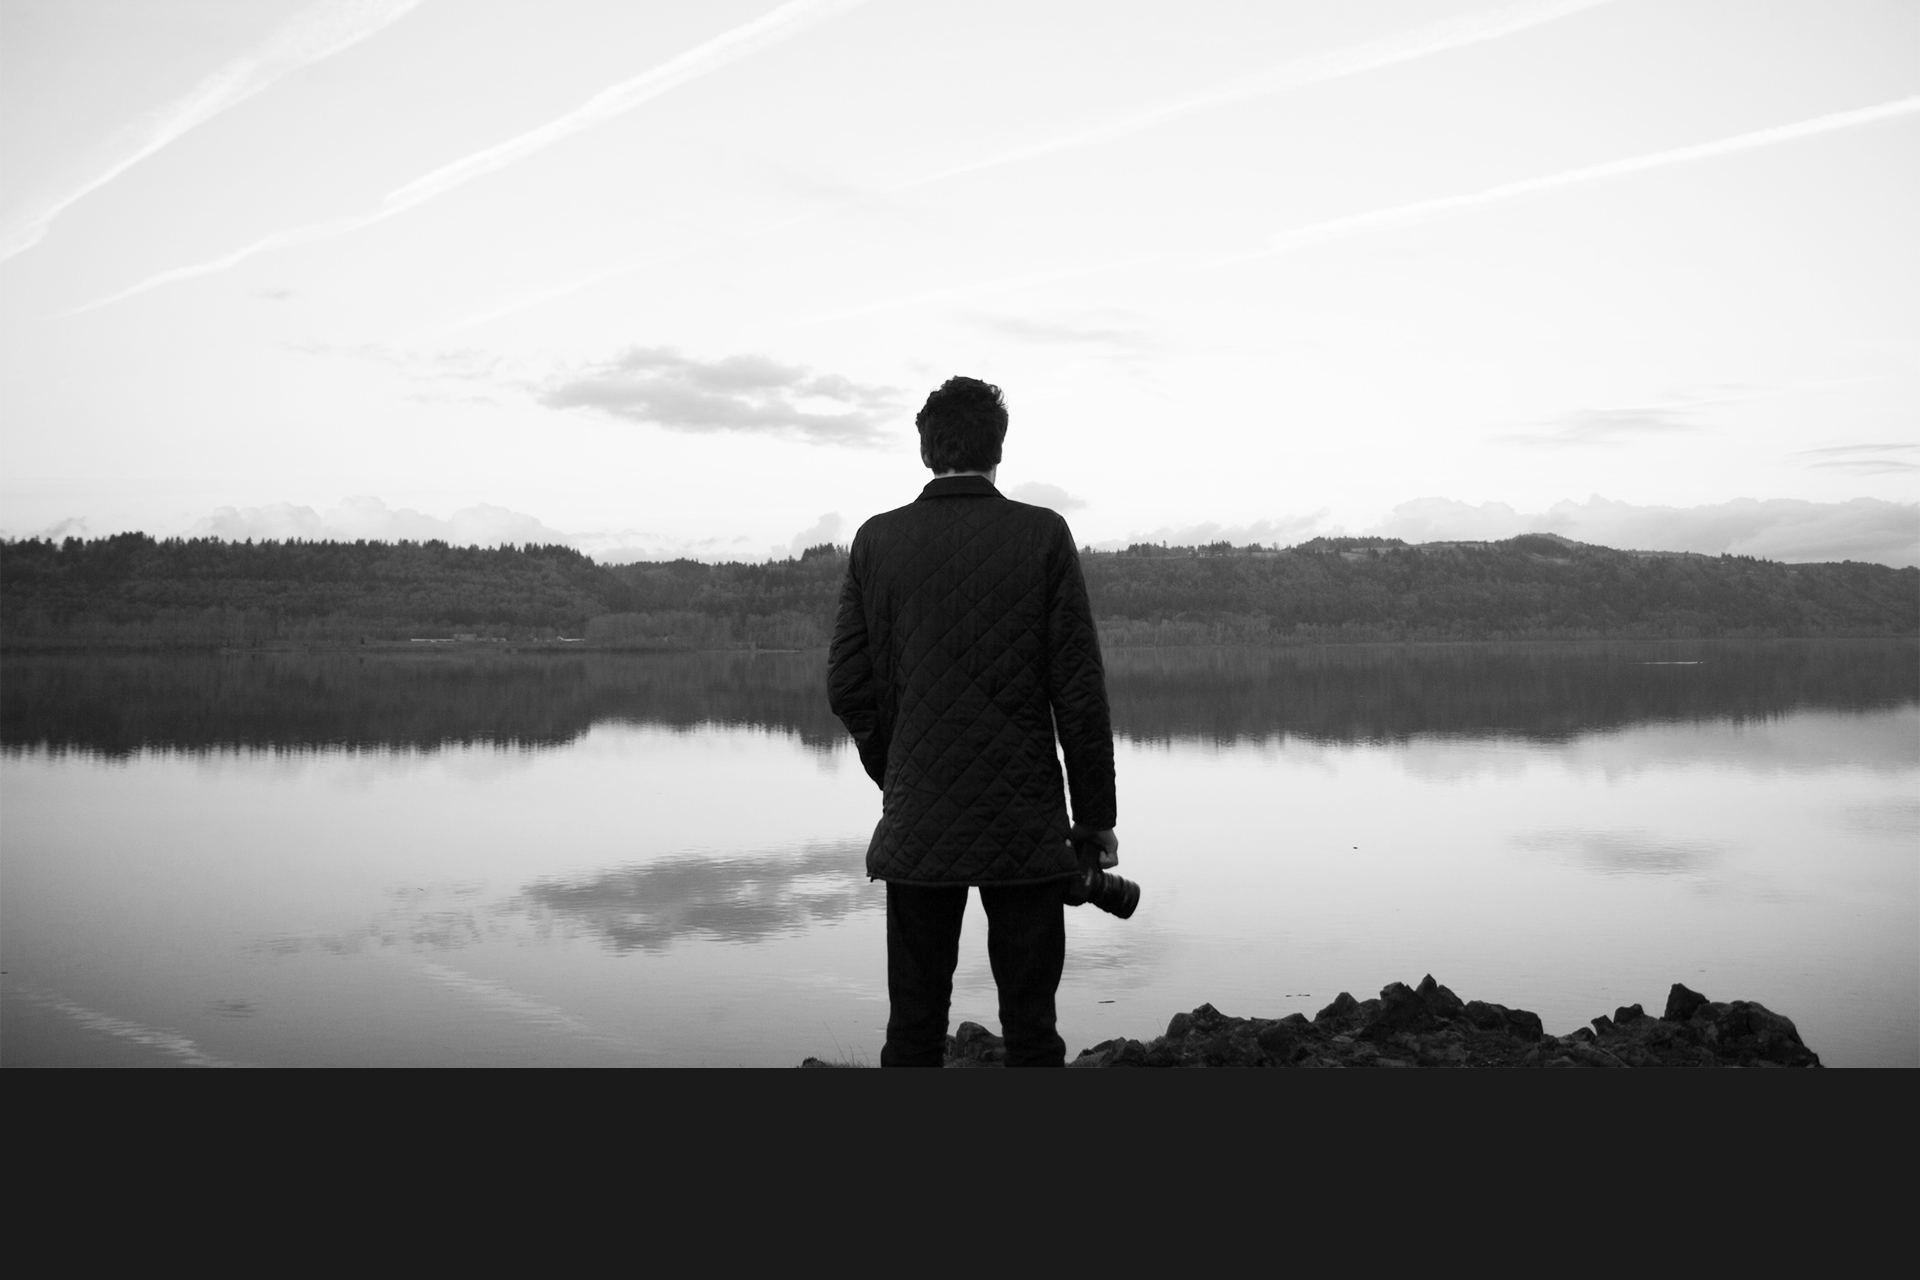
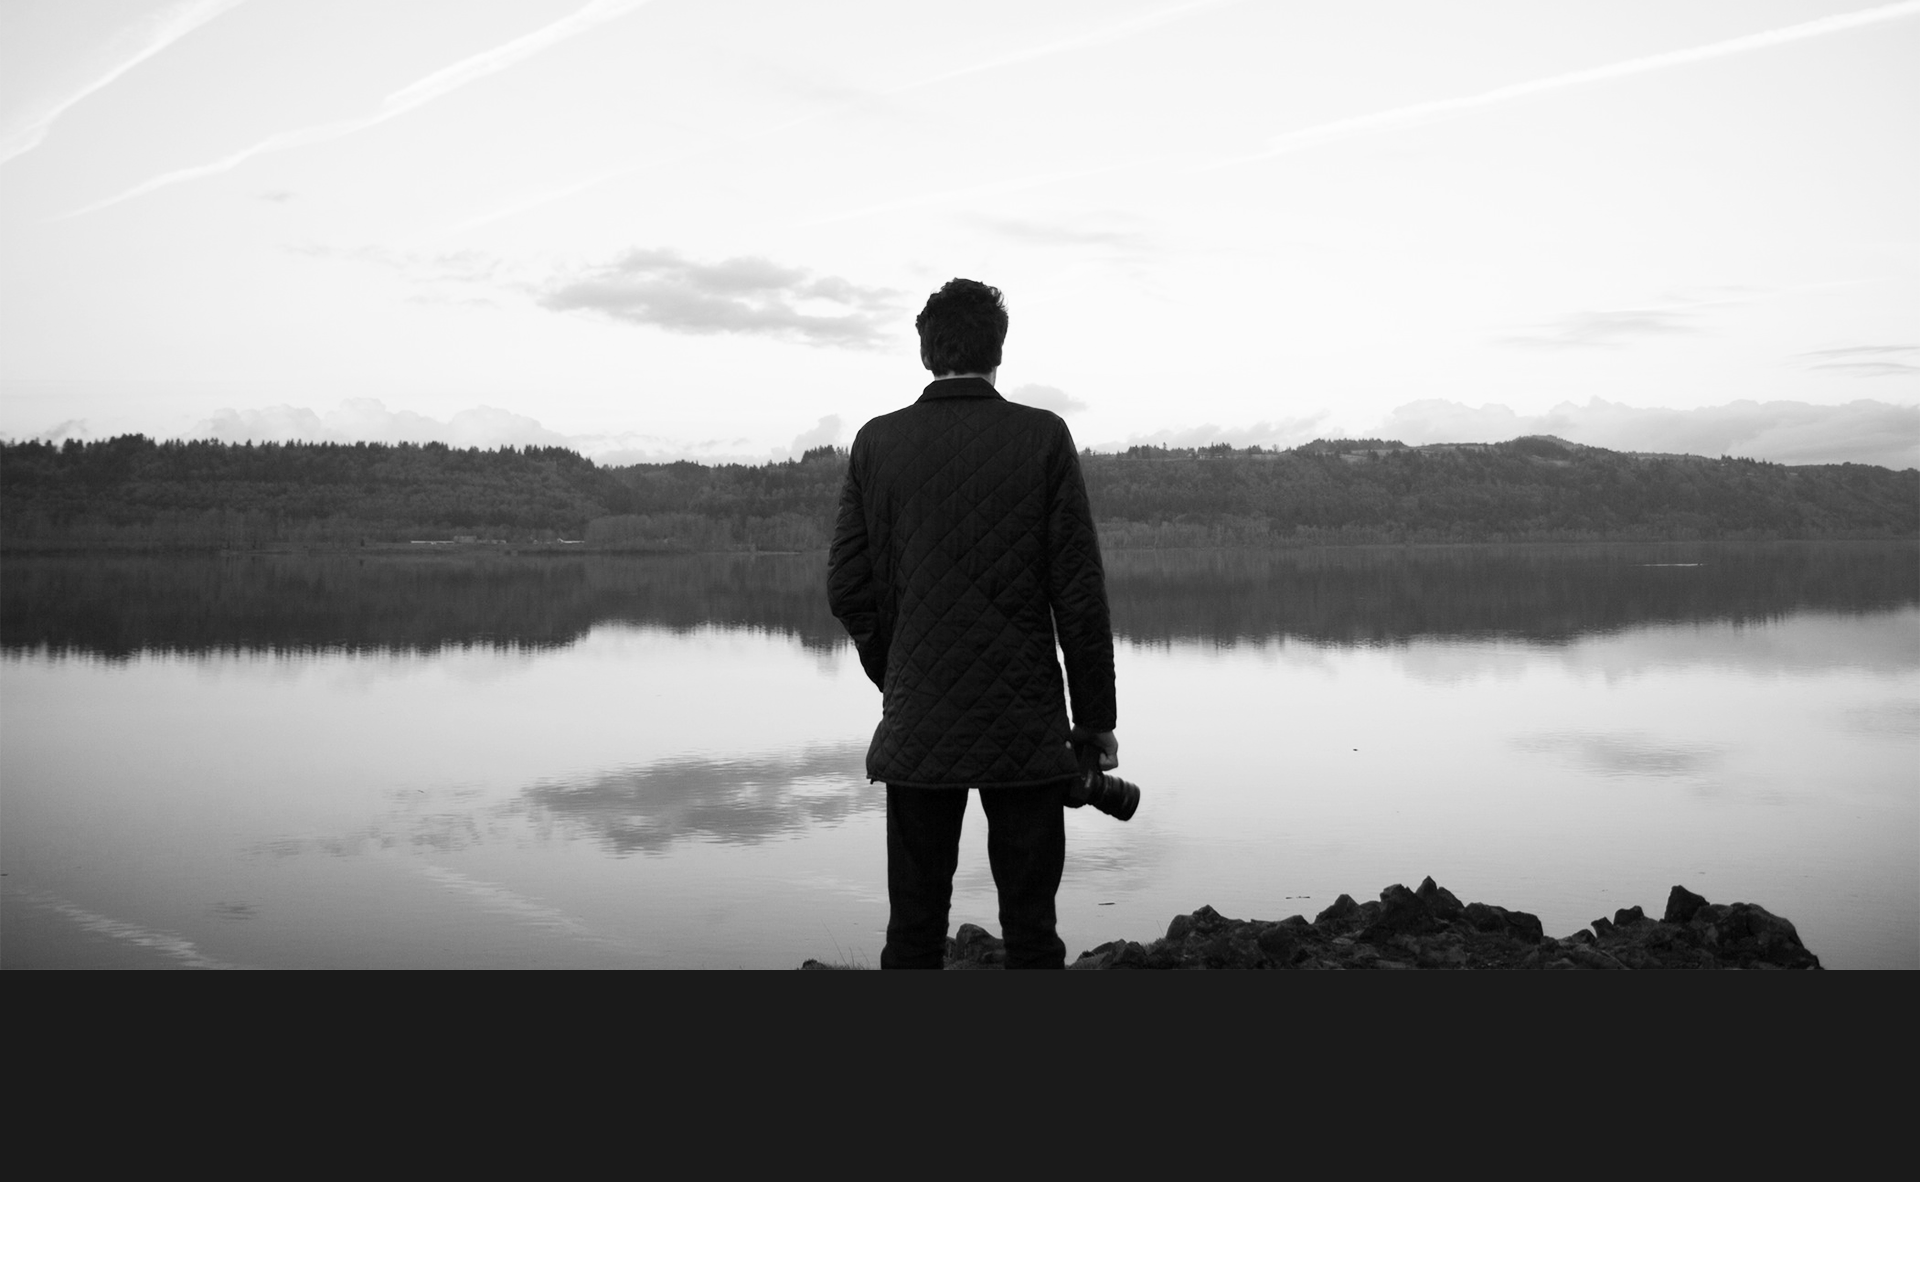
little somin somin

diff --git a/css/layout.css b/css/layout.css
@@ -87,6 +87,7 @@ h1{
 .mastfoot{
 	text-align: center;
 	margin: 0 auto;
+	padding-bottom: 50px;
 }
 
 body{
@@ -95,8 +96,8 @@ body{
 }
 
 .spinner {
-  width: 40px;
-  height: 40px;
+  width: 50px;
+  height: 50px;
 
   position: relative;
   margin: 100px auto;

diff --git a/css/movies.css b/css/movies.css
@@ -8,7 +8,7 @@
 
 .movieContainer{
 	background: rgba(255,255,255,.08);
-	border-radius: 2px;
+	border-radius:3px;
 	width: 70%;
 	margin: 0 auto;
 	padding: 40px;
